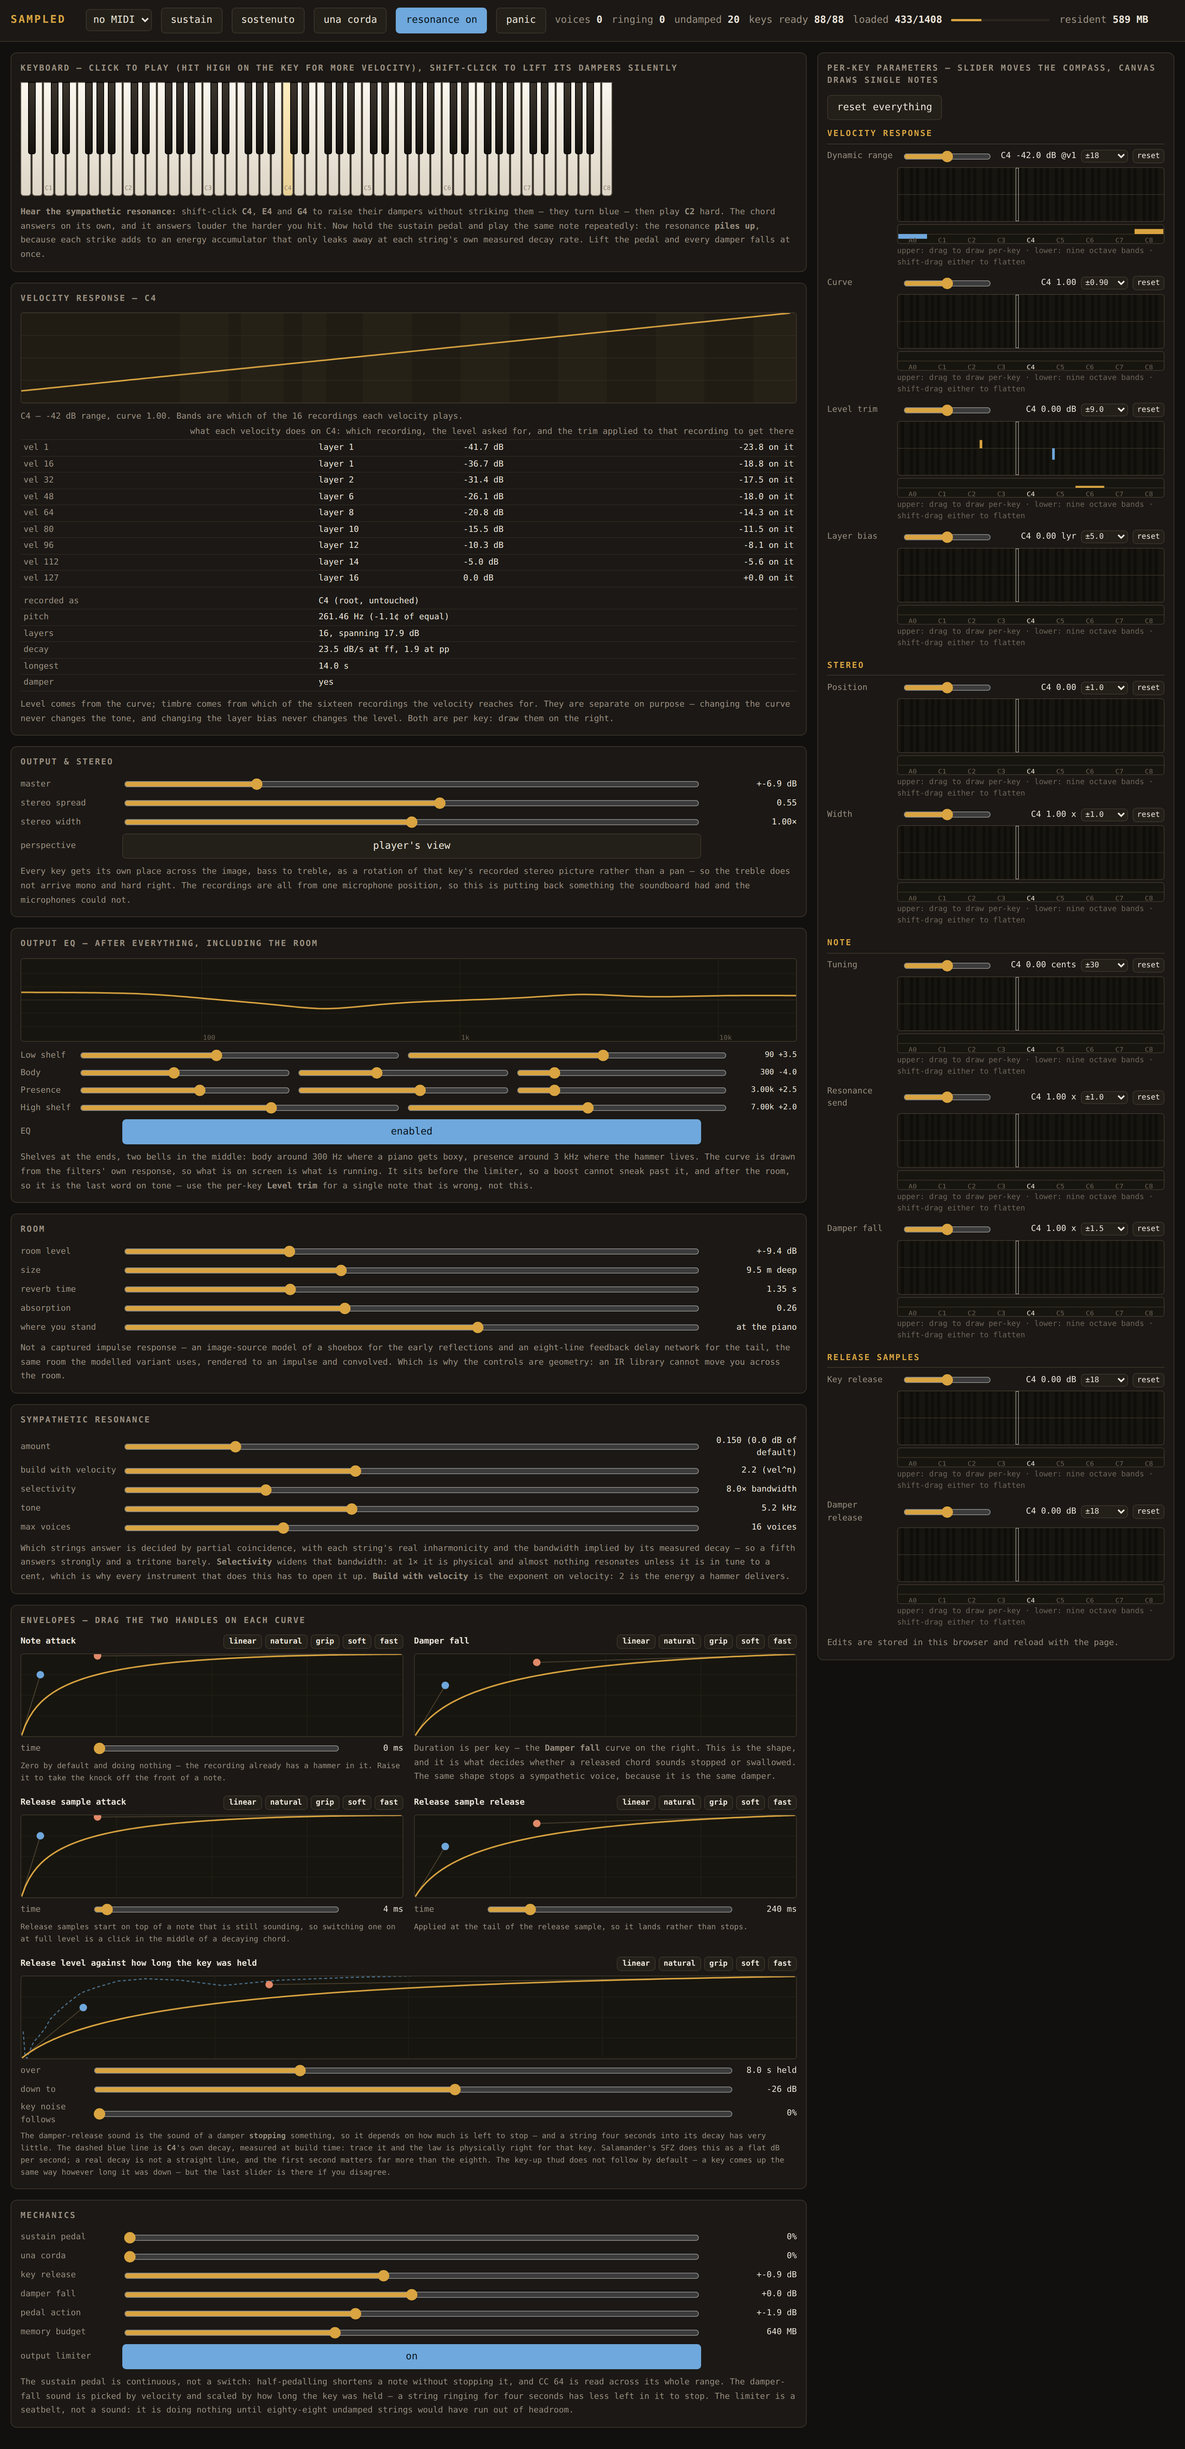
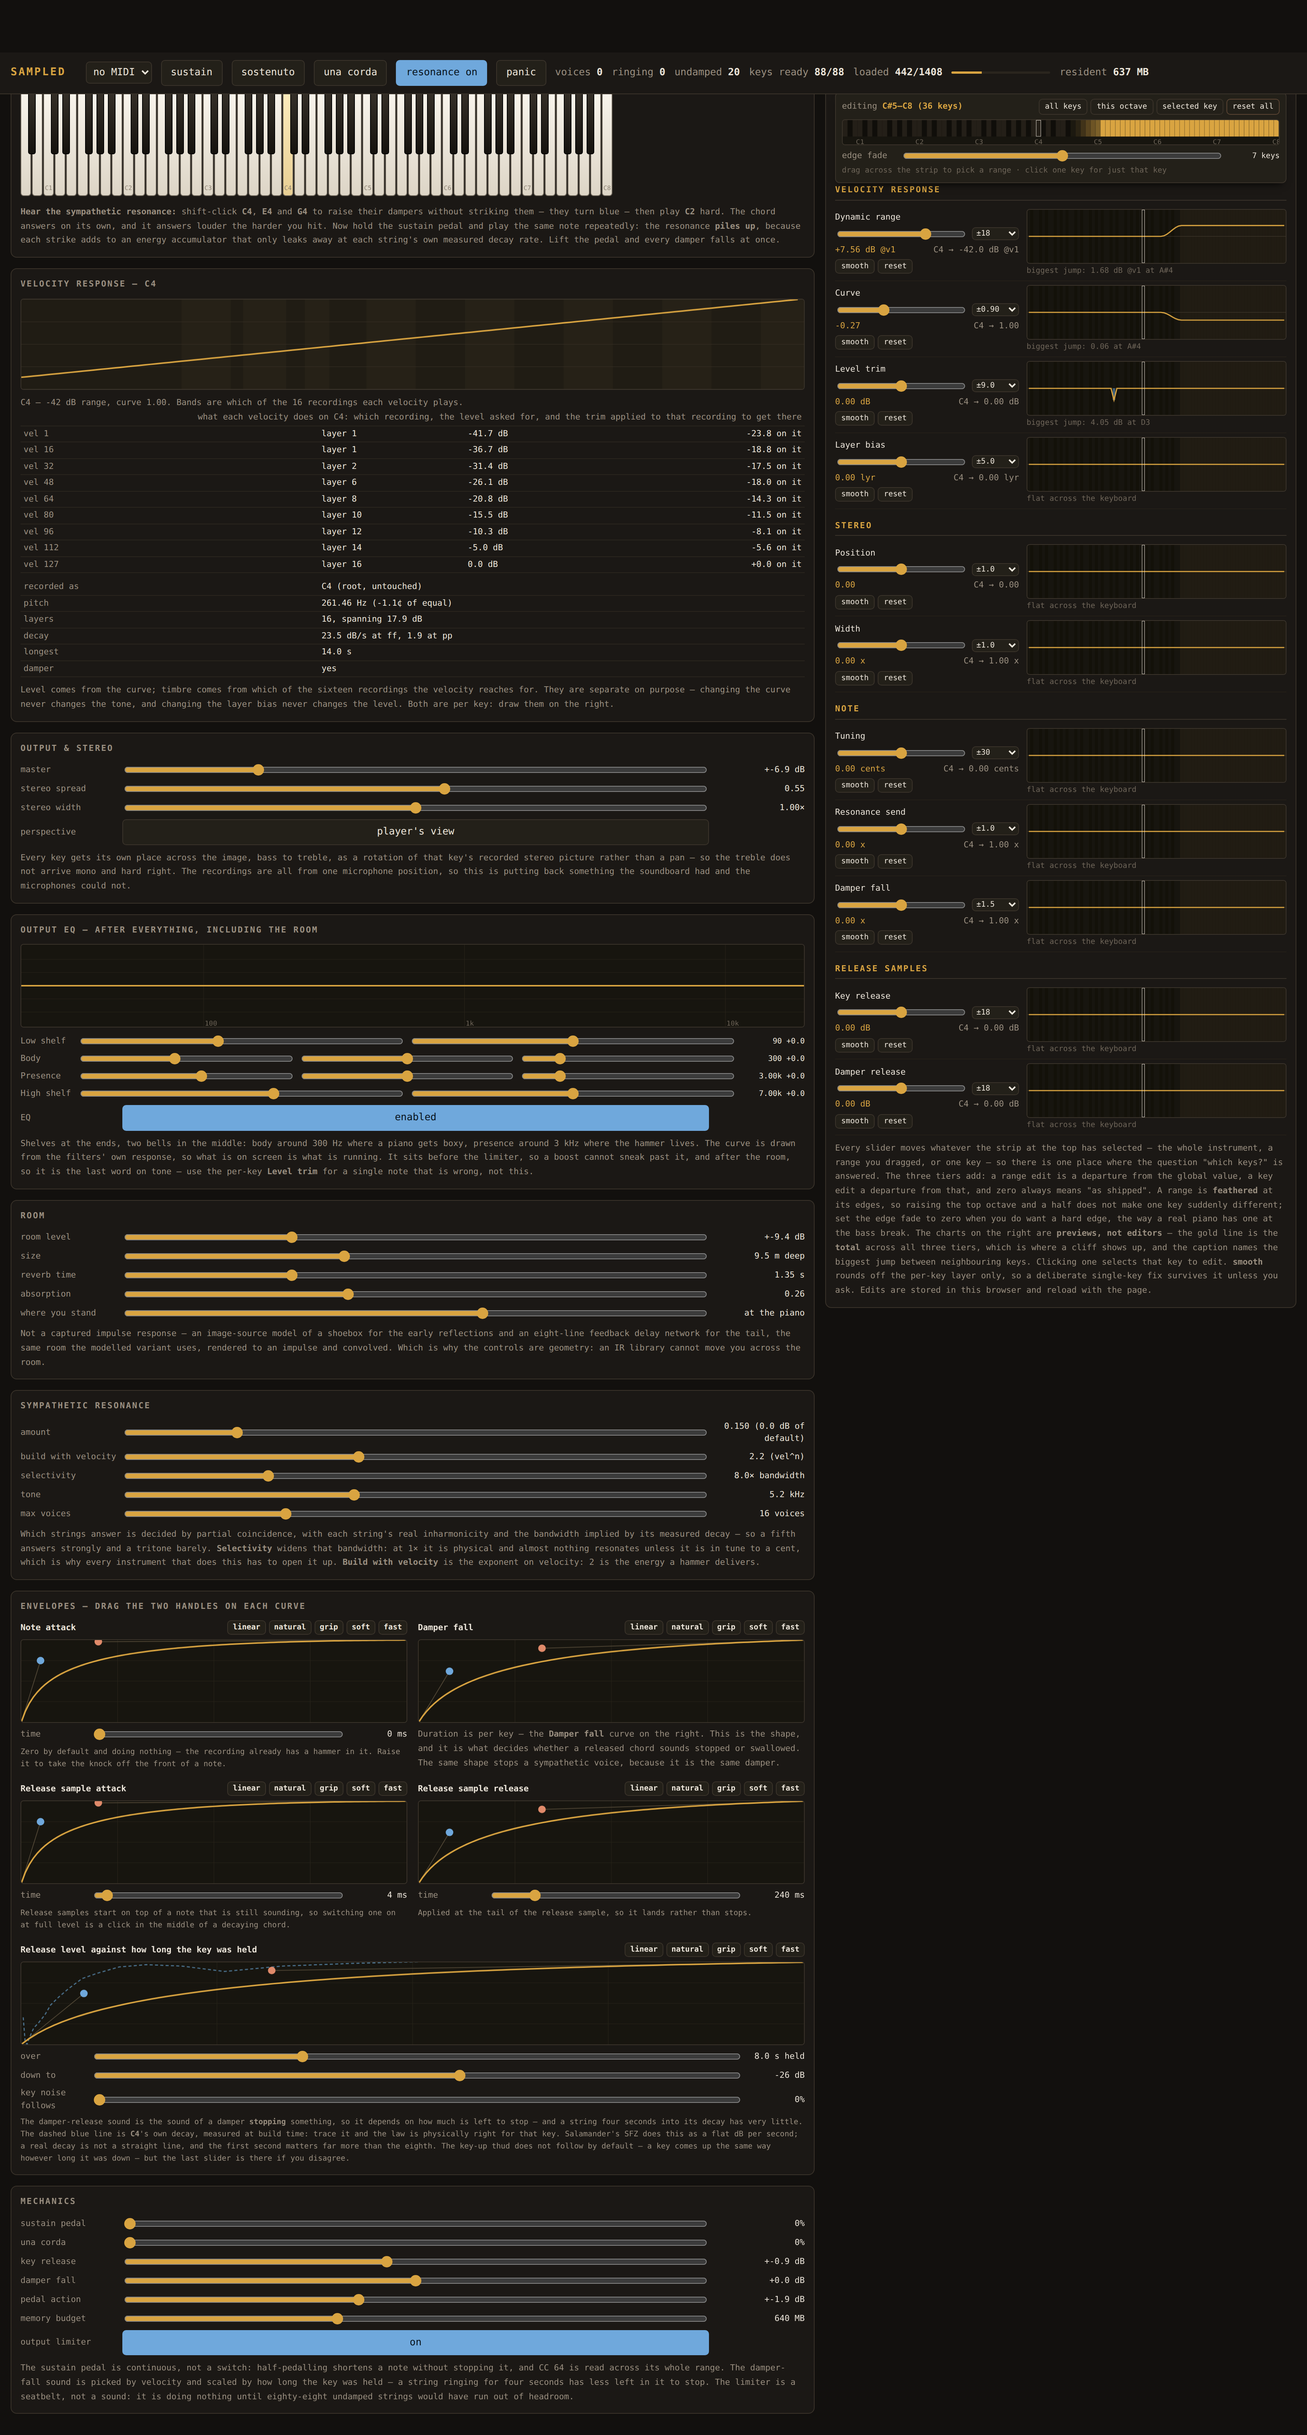
One column: pick the keys at the top, charts are previews
The scope strip is sticky at the top of the panel, so there is exactly one
place where the question "which keys?" is answered, and it stays visible while
scrolling the parameters under it. Each parameter is then controls on the left
and a read-only chart on the right.

The chart used to be editable as well as informative, which meant two ways of
saying the same thing and no way to tell by looking which had been used.
Editing is now entirely scope-plus-slider; clicking a chart selects that key,
which moves the selection and never changes a value.

Each parameter shows two numbers instead of one -- what the current scope is
offset by, and what the selected key therefore ends up at. They answer
different questions, and conflating them is how you lose track of which tier
you are on.

"reset everything" moves into the scope bar, since the sticky bar was
overlapping it where it was.

All eleven per-key parameters use this. Everything else stays one value for
the instrument because it is a property of the instrument and not of a key:
master, stereo spread and perspective, room, resonance, envelopes, EQ, and
the mechanical noise levels. README says which, and which of those could
reasonably become scoped.

Claude-Session: https://claude.ai/code/session_017K3urac1ZYijURx4XtvSCb

diff --git a/sampled/index.html b/sampled/index.html
@@ -22,8 +22,8 @@ button.on{background:var(--accent2);color:#08131c;border-color:var(--accent2)}
 select{background:var(--panel2);color:var(--ink);border:1px solid var(--line);border-radius:5px;padding:5px;font:inherit;max-width:230px}
 code{background:var(--panel2);padding:1px 5px;border-radius:3px}
 .stat{color:var(--dim)} .stat b{color:var(--ink);font-weight:600}
-main{padding:14px;display:grid;grid-template-columns:minmax(0,1fr) 470px;gap:14px;align-items:start}
-@media(max-width:1180px){main{grid-template-columns:1fr}}
+main{padding:14px;display:grid;grid-template-columns:minmax(0,1fr) 620px;gap:14px;align-items:start}
+@media(max-width:1340px){main{grid-template-columns:1fr}}
 .panel{background:var(--panel);border:1px solid var(--line);border-radius:8px;padding:12px;margin-bottom:14px}
 .panel h2{font-size:11px;letter-spacing:.14em;text-transform:uppercase;color:var(--dim);margin:0 0 10px}
 #kb{position:relative;height:154px;user-select:none;overflow-x:auto;white-space:nowrap;touch-action:pan-x}
@@ -68,16 +68,19 @@ kbd{background:var(--panel2);border:1px solid var(--line);border-radius:3px;padd
 #loadBar{height:100%;width:0;background:var(--accent);transition:width .3s}
 .pe-group{font-size:11px;letter-spacing:.14em;text-transform:uppercase;color:var(--accent);margin:14px 0 6px;border-bottom:1px solid var(--line);padding-bottom:4px}
 .pe-group:first-child{margin-top:0}
-.pe-row{margin:2px 0}
+.pe-row{display:grid;grid-template-columns:242px minmax(0,1fr);gap:10px;align-items:center;padding:5px 0;border-bottom:1px solid #241f18}
+.pe-ctl{min-width:0}
+.pe-ctl>label{display:block;color:var(--ink);font-size:11px;cursor:help;margin-bottom:3px}
 .pe-head{display:flex;align-items:center;gap:6px}
-.pe-head label{flex:0 0 92px;color:var(--dim);font-size:11px;cursor:help}
-.pe-slider{flex:1;min-width:54px;accent-color:var(--accent)}
-.pe-out{flex:0 0 104px;text-align:right;font-size:11px;font-variant-numeric:tabular-nums;white-space:nowrap}
+.pe-slider{flex:1;min-width:60px;accent-color:var(--accent)}
 .pe-zoom{padding:1px;font-size:10px;flex:0 0 62px}
-.pe-head button{padding:1px 5px;font-size:10px;flex:0 0 auto}
-.pe-canvas-wrap{margin:4px 0 10px 92px}
+.pe-out{display:flex;justify-content:space-between;gap:6px;font-size:11px;font-variant-numeric:tabular-nums;margin-top:3px}
+.pe-off{color:var(--accent)} .pe-abs{color:var(--dim)}
+.pe-btns{display:flex;gap:4px;margin-top:4px}
+.pe-btns button{padding:1px 7px;font-size:10px}
+.pe-canvas-wrap{min-width:0}
 .pe-canvas-wrap canvas{background:#17150f;border:1px solid var(--line);border-radius:4px;width:100%;touch-action:none;cursor:crosshair;display:block}
-.pe-canvas-wrap canvas.pe-keys{height:76px}
+.pe-canvas-wrap canvas.pe-keys{height:72px;cursor:pointer}
 .sel-bar{background:var(--panel2);border:1px solid var(--line);border-radius:6px;padding:8px;margin-bottom:12px}
 .sel-head{display:flex;align-items:center;gap:8px;font-size:11px;color:var(--dim);flex-wrap:wrap}
 .sel-head b{color:var(--accent);font-weight:600}
@@ -89,6 +92,8 @@ kbd{background:var(--panel2);border:1px solid var(--line);border-radius:3px;padd
 .sel-foot input[type=range]{flex:1;accent-color:var(--accent)}
 .sel-foot output{flex:0 0 66px;text-align:right;font-size:10px;font-variant-numeric:tabular-nums}
 .pe-hint{color:#6d6458;font-size:10px;margin-top:2px}
+.sel-bar{position:sticky;top:52px;z-index:5;box-shadow:0 6px 10px -6px #000}
+.sel-actions button[data-reset]{border-color:#5a4433}
 #overlay{position:fixed;inset:0;background:rgba(10,8,6,.95);display:flex;align-items:center;justify-content:center;z-index:100;padding:20px}
 #overlay div{text-align:center;max-width:540px}
 #overlay p{color:var(--dim);margin:14px 0}
@@ -267,16 +272,18 @@ kbd{background:var(--panel2);border:1px solid var(--line);border-radius:3px;padd
 
   <div>
     <div class="panel">
-      <h2>Parameters — one slider each, on whatever you have selected</h2>
-      <div style="display:flex;gap:8px;margin-bottom:10px"><button id="resetAll">reset everything</button></div>
+      <h2>Parameters — pick the keys once, then edit; the chart is a preview</h2>
       <div id="editor"></div>
-      <div class="hint">Every slider moves whatever the strip above has selected: the whole instrument,
-        a range you dragged, or one key. The three add — a range edit is a departure from the global
-        value, a key edit a departure from that — so zero always means "as shipped". A range is
-        <b>feathered</b> at its edges, so raising the top octave and a half does not make one key
-        suddenly different; set the edge fade to zero when you do want a hard edge. The gold line on
-        each chart is the <b>total</b>, which is where you will see a cliff if you have made one, and
-        the caption underneath names the biggest jump between neighbouring keys.
+      <div class="hint">Every slider moves whatever the strip at the top has selected — the whole
+        instrument, a range you dragged, or one key — so there is one place where the question
+        "which keys?" is answered. The three tiers add: a range edit is a departure from the global
+        value, a key edit a departure from that, and zero always means "as shipped".
+        A range is <b>feathered</b> at its edges, so raising the top octave and a half does not make
+        one key suddenly different; set the edge fade to zero when you do want a hard edge, the way
+        a real piano has one at the bass break.
+        The charts on the right are <b>previews, not editors</b> — the gold line is the
+        <b>total</b> across all three tiers, which is where a cliff shows up, and the caption names
+        the biggest jump between neighbouring keys. Clicking one selects that key to edit.
         <b>smooth</b> rounds off the per-key layer only, so a deliberate single-key fix survives it
         unless you ask. Edits are stored in this browser and reload with the page.</div>
     </div>

diff --git a/sampled/src/curves.js b/sampled/src/curves.js
@@ -258,6 +258,7 @@ export function createEditor(root, curves, onChange, selected = () => 60) {
         <button data-all>all keys</button>
         <button data-oct>this octave</button>
         <button data-one>selected key</button>
+        <button data-reset title="every parameter, every tier, back to as shipped">reset all</button>
       </span>
     </div>
     <canvas class="sel-map" height="${34 * devicePixelRatio}"></canvas>
@@ -323,6 +324,7 @@ export function createEditor(root, curves, onChange, selected = () => 60) {
     refresh();
   };
   bar.querySelector('[data-one]').onclick = () => { sel.lo = sel.hi = selected(); refresh(); };
+  bar.querySelector('[data-reset]').onclick = () => { for (const p of PARAMS) curves.reset(p.key); refresh(); notify(); };
   const fSlider = bar.querySelector('.sel-feather');
   fSlider.oninput = () => {
     feather = +fSlider.value;
@@ -351,19 +353,30 @@ export function createEditor(root, curves, onChange, selected = () => 60) {
   function makeRow(p) {
     const wrap = document.createElement('div');
     wrap.className = 'pe-row';
+    // Controls on the left, a read-only preview of the finished curve on the
+    // right. The chart used to be editable too, which meant two ways to say
+    // the same thing and no way to tell from looking at it which one had been
+    // used. Everything is said through the scope now; the chart only answers
+    // "and what does that do?"
     wrap.innerHTML = `
-      <div class="pe-head">
+      <div class="pe-ctl">
         <label title="${p.hint.replace(/"/g, '&quot;')}">${p.label}</label>
-        <input type="range" class="pe-slider" min="-1" max="1" step="0.002" value="0">
+        <div class="pe-head">
+          <input type="range" class="pe-slider" min="-1" max="1" step="0.002" value="0">
+          <select class="pe-zoom" title="precision — zooms the slider and the chart">
+            ${ZOOMS.map((z, i) => `<option value="${i}">±${(p.span * z).toPrecision(2)}</option>`).join('')}
+          </select>
+        </div>
         <output class="pe-out"></output>
-        <select class="pe-zoom" title="precision — zooms the slider and the chart">
-          ${ZOOMS.map((z, i) => `<option value="${i}">±${(p.span * z).toPrecision(2)}</option>`).join('')}
-        </select>
-        <button class="pe-smooth" title="round off the per-key layer, so a fix does not stand alone as a step">smooth</button>
-        <button class="pe-reset" title="back to the shipped value, every tier">reset</button>
+        <div class="pe-btns">
+          <button class="pe-smooth" title="round off the per-key layer, so a single-key fix does not stand alone as a step">smooth</button>
+          <button class="pe-reset" title="back to the shipped value, every tier">reset</button>
+        </div>
       </div>
-      <div class="pe-canvas-wrap"><canvas class="pe-keys" height="${76 * devicePixelRatio}"></canvas>
-        <div class="pe-hint pe-step"></div></div>`;
+      <div class="pe-canvas-wrap">
+        <canvas class="pe-keys" height="${72 * devicePixelRatio}"></canvas>
+        <div class="pe-hint pe-step"></div>
+      </div>`;
     root.appendChild(wrap);
 
     const slider = wrap.querySelector('.pe-slider');
@@ -415,10 +428,14 @@ export function createEditor(root, curves, onChange, selected = () => 60) {
       }
 
       slider.value = Math.max(-1, Math.min(1, curves.scopeValue(p.key, sel) / span()));
-      out.textContent = `${noteName(cur)} ${fmt(p, curves.at(p.key, cur))}`;
+      // Two numbers, because they answer different questions: what this scope
+      // is offset by, and what the selected key therefore ends up at.
+      const off = curves.scopeValue(p.key, sel);
+      out.innerHTML = `<span class="pe-off">${off > 0 ? '+' : ''}${fmt(p, off)}</span>`
+        + `<span class="pe-abs">${noteName(cur)} → ${fmt(p, curves.at(p.key, cur))}</span>`;
       const { step, midi } = curves.worstStep(p.key);
       wrap.querySelector('.pe-step').textContent = step > 1e-4
-        ? `biggest jump between neighbours: ${fmt(p, step)} at ${noteName(midi)}`
+        ? `biggest jump: ${fmt(p, step)} at ${noteName(midi)}`
         : 'flat across the keyboard';
     };
 
@@ -433,19 +450,15 @@ export function createEditor(root, curves, onChange, selected = () => 60) {
     wrap.querySelector('.pe-smooth').onclick = () => { curves.smooth(p.key, 2); draw(); notify(); };
     wrap.querySelector('.pe-reset').onclick = () => { curves.reset(p.key); draw(); notify(); };
 
-    // Drawing straight onto the chart still edits the per-key layer, which is
-    // the fastest way to say "these four notes, not a region".
-    let drawing = false;
-    const paint = (e) => {
+    // Clicking the preview picks that key as the scope, which is the one
+    // editing gesture it keeps -- it moves the selection, it does not change
+    // a value.
+    canvas.onpointerdown = (e) => {
       const r = canvas.getBoundingClientRect();
       const i = Math.max(0, Math.min(KEYS - 1, Math.floor((e.clientX - r.left) / r.width * KEYS)));
-      const rel = 1 - (e.clientY - r.top) / r.height * 2;
-      curves.setKey(p.key, LOW + i, e.shiftKey ? (curves.k[p.key]?.[i] ?? 0) * 0.6 : rel * span() - (curves.at(p.key, LOW + i) - p.def - (curves.k[p.key]?.[i] ?? 0)));
-      draw(); notify();
+      sel.lo = sel.hi = LOW + i;
+      refresh();
     };
-    canvas.onpointerdown = (e) => { drawing = true; canvas.setPointerCapture(e.pointerId); paint(e); };
-    canvas.onpointermove = (e) => { if (drawing) paint(e); };
-    canvas.onpointerup = canvas.onpointercancel = () => { drawing = false; };
 
     draw();
     return { draw };

diff --git a/sampled/src/main.js b/sampled/src/main.js
@@ -233,16 +233,6 @@ function buildUI() {
   $('sostBtn').onclick = () => setSostenuto(!engine.sostenuto.size);
   $('unaBtn').onclick = () => setUna(engine.unaCorda >= 0.5 ? 0 : 1);
   $('panicBtn').onclick = () => { engine.panic(); down.clear(); silent.clear(); for (let m = LOW; m <= HIGH; m++) paint(m); };
-  $('resetAll').onclick = () => {
-    for (const p of PARAMS) curves.reset(p.key);
-    envelopes.fromJSON(new Envelopes().toJSON());
-    engine.eq.fromJSON(null);
-    for (const [i, b] of BANDS.entries()) {
-      engine.eq.set(i, 'freq', b.freq); engine.eq.set(i, 'gain', b.gain); engine.eq.set(i, 'q', b.q);
-    }
-    localStorage.removeItem(STORE);
-    editor.refresh(); engine.refreshStrips(); renderNote(); redrawEnvs(); buildEq();
-  };
   renderNote();
 }
 

diff --git a/sampled/README.md b/sampled/README.md
@@ -305,13 +305,26 @@ top 36 keys by 12 dB:
 Set it to zero when a hard edge is what you want — a real piano has one at the
 bass break.
 
+**The charts are previews, not editors.** One column: the scope strip at the
+top, sticky, so there is exactly one place where the question "which keys?"
+is answered; the parameters below it; and beside each one a read-only picture
+of what the edit did. The chart used to be editable as well, which meant two
+ways of saying the same thing and no way to tell by looking which had been
+used. Clicking a chart selects that key — it moves the selection, it never
+changes a value.
+
 Two things make a cliff visible rather than something you discover later. The
 gold line on every chart is the **total** — global plus ranges plus per key,
 not the layer being edited — because a cliff is a property of the sum and
 nothing else on screen would show it. And the caption under each chart names
 the biggest jump between neighbouring keys and which key it is at, so a
-deliberate single-key fix reads as `4.32 dB at D3` and an accidental one reads
+deliberate single-key fix reads as `4.05 dB at D3` and an accidental one reads
 the same way.
+
+Each parameter also shows two numbers rather than one: what the current scope
+is offset by, and what the selected key therefore ends up at. They answer
+different questions and conflating them is how you lose track of which tier
+you are on.
 
 **smooth** rounds off the per-key layer, and only that layer. It is opt-in
 because automatic smoothing would take away the other half of what is wanted
@@ -379,6 +392,15 @@ per voice: where a key sits in the image is a property of where its strings sit
 on the soundboard, and outlives any particular note. It also means a sympathetic
 voice lands in the same place as a struck one — which is not an optimisation but
 a requirement, since they are the same strings.
+
+### What is scoped and what is not
+
+The eleven above are per-key. Everything else is one value for the instrument,
+because it is a property of the instrument and not of a key: master level,
+stereo spread and perspective, the five room controls, the five resonance
+controls, the five envelopes, the four EQ bands, and the mechanical noise
+levels. The envelope times and the resonance amount could reasonably become
+scoped; nothing else on that list could.
 
 ### Output EQ
 
